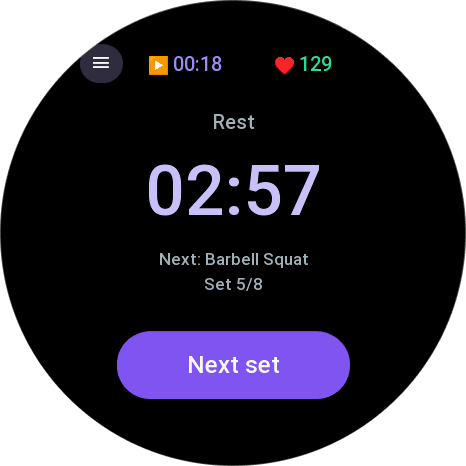
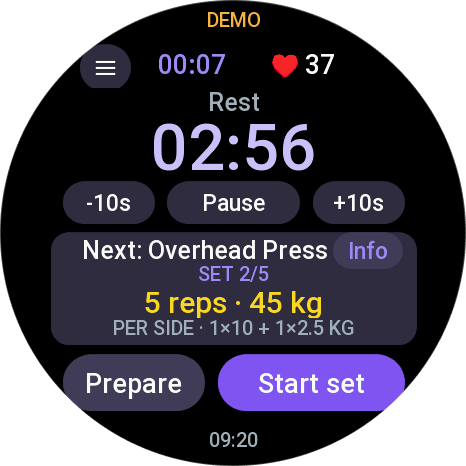
docs: refresh app screenshots
- replace workout flow captures with current round-watch screens

- add home, exercise details, and companion settings previews

- expand the README screenshot gallery

diff --git a/README.md b/README.md
@@ -7,11 +7,16 @@ Standalone app and Workout Extension for [Liftosaur](https://www.liftosaur.com) 
 ![Tests](https://img.shields.io/badge/tests-474%20passing-brightgreen.svg)
 
 <p align="center">
+  <img src="docs/screenshots/home-screen.png" width="19%" alt="Workout Home" />
   <img src="docs/screenshots/workout-preview.png" width="19%" alt="Day Preview" />
   <img src="docs/screenshots/active-set.png" width="19%" alt="Active Set" />
   <img src="docs/screenshots/rest-timer.png" width="19%" alt="Rest Timer" />
   <img src="docs/screenshots/workout-overview.png" width="19%" alt="Workout Overview" />
+</p>
+<p align="center">
   <img src="docs/screenshots/workout-summary.png" width="19%" alt="Workout Summary" />
+  <img src="docs/screenshots/exercise-details.png" width="19%" alt="Exercise Details" />
+  <img src="docs/screenshots/companion-settings.png" width="19%" alt="Companion Settings" />
 </p>
 
 ## Lifto Companion
